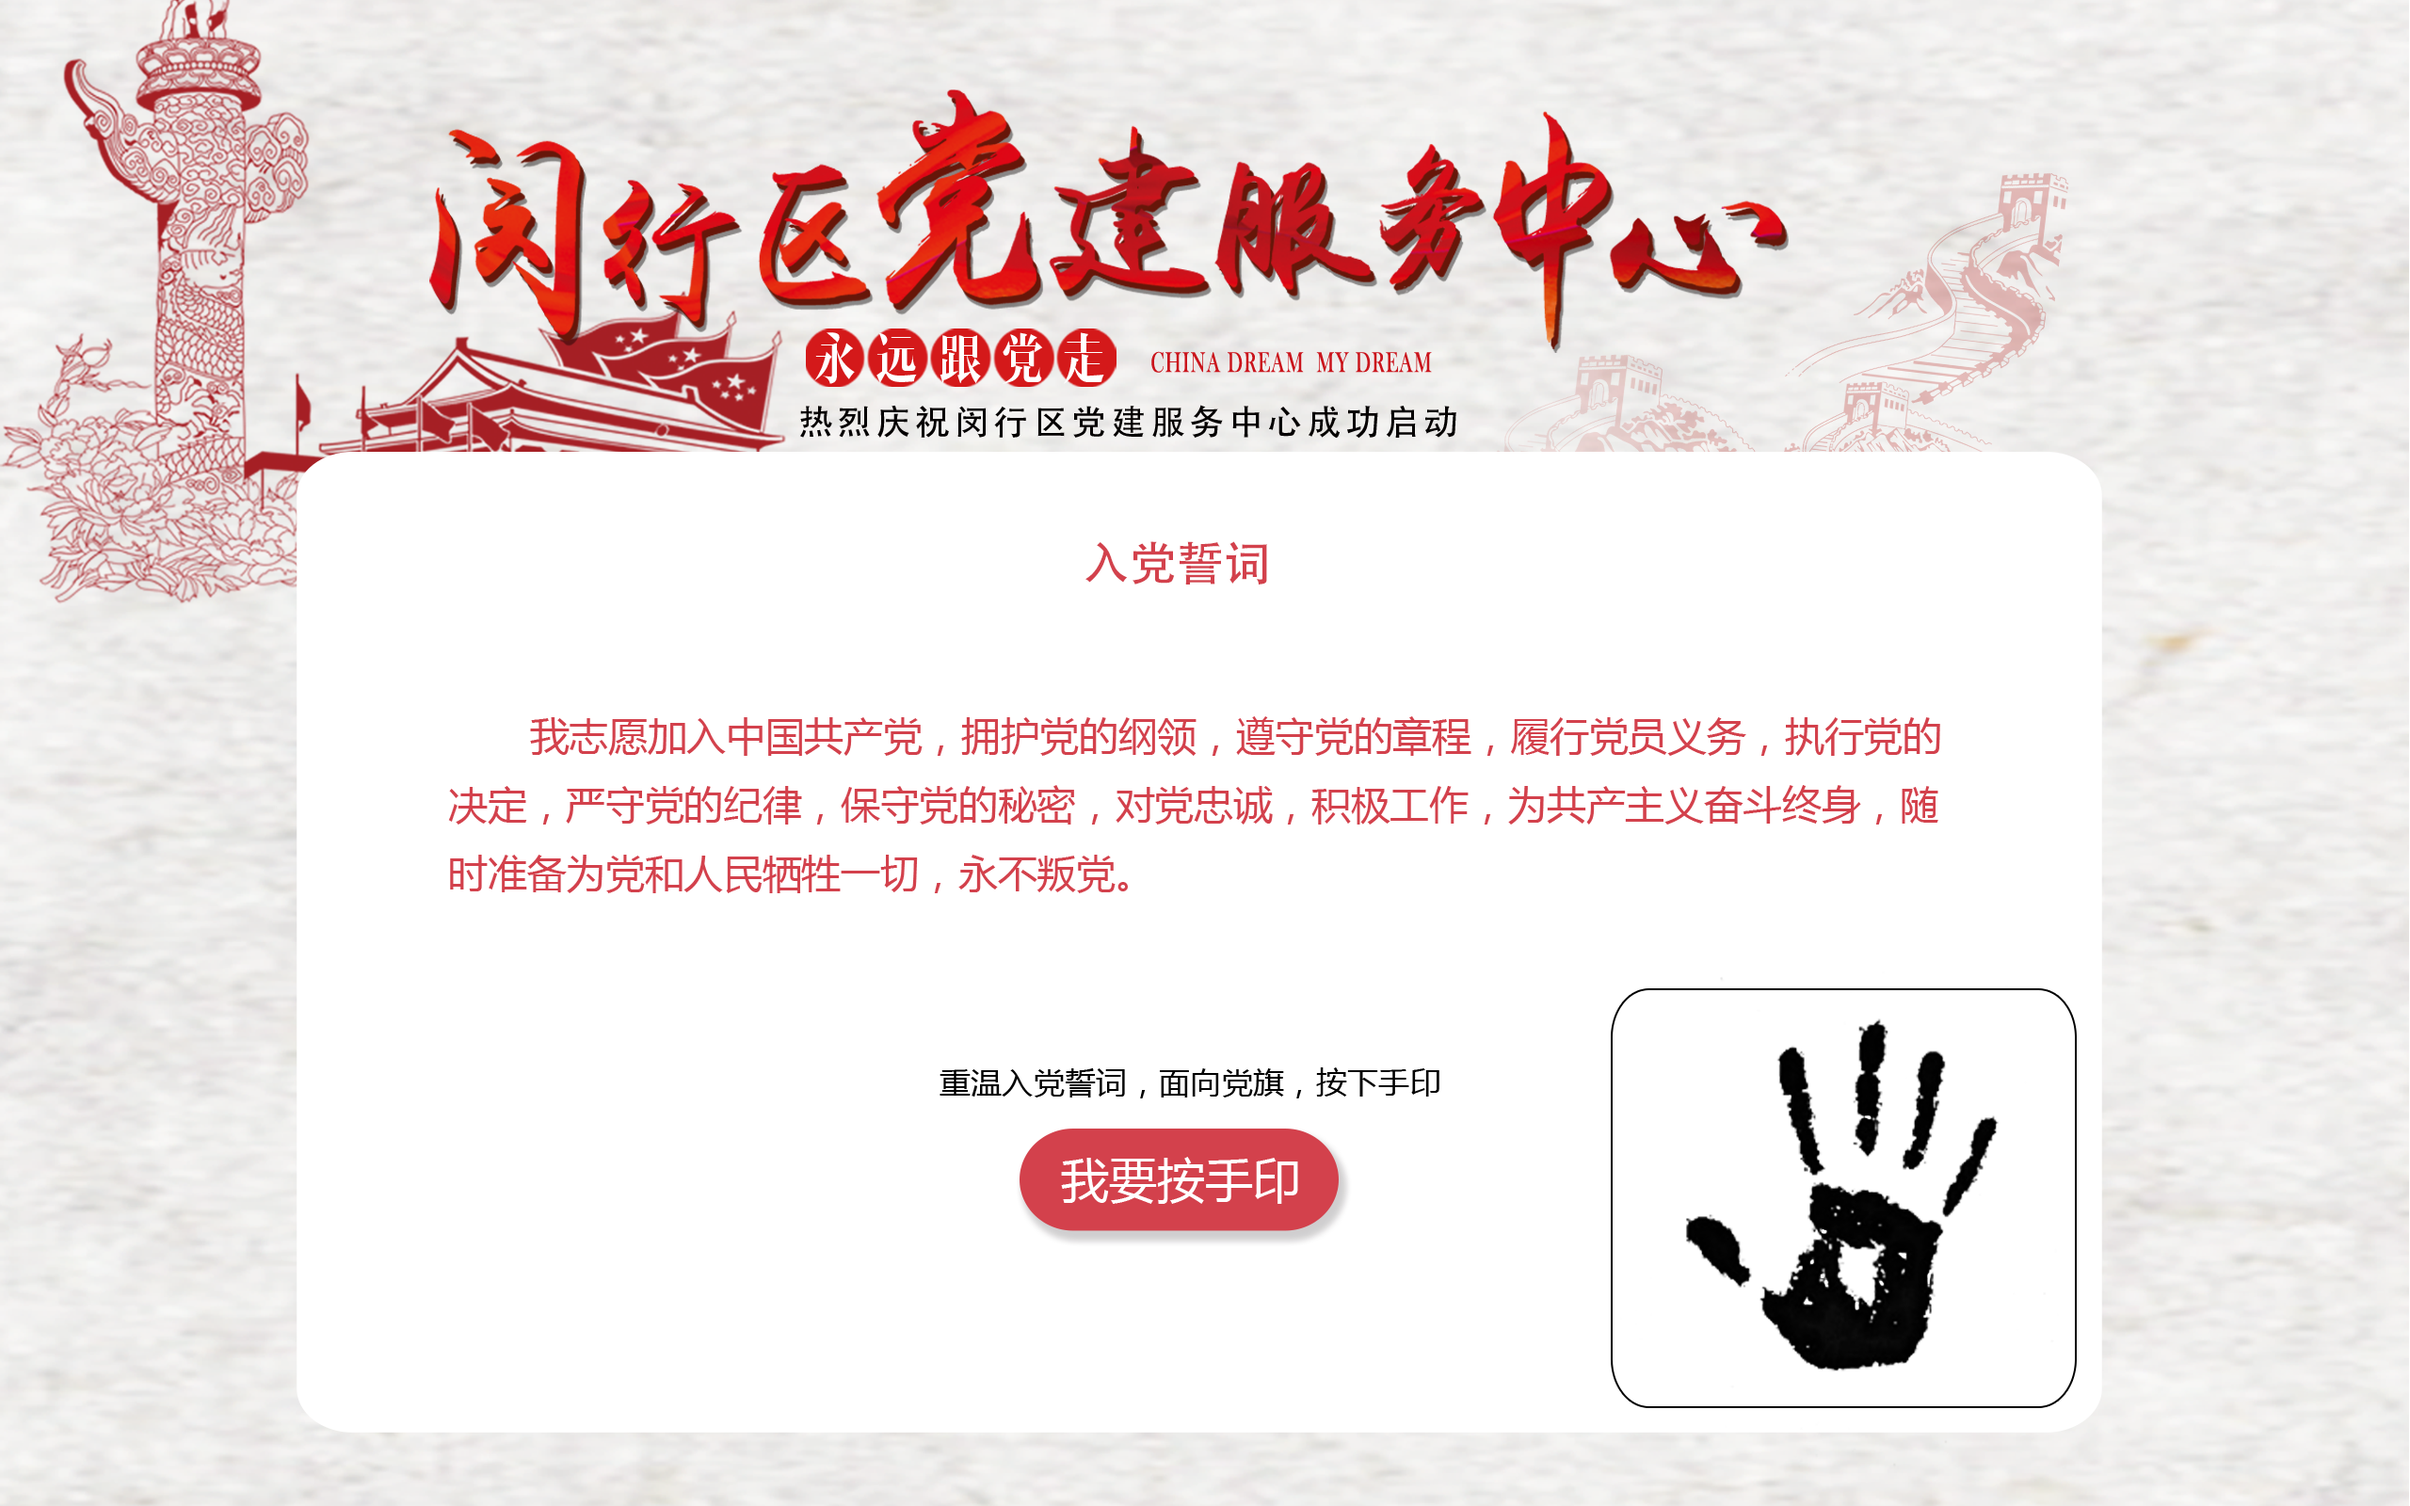
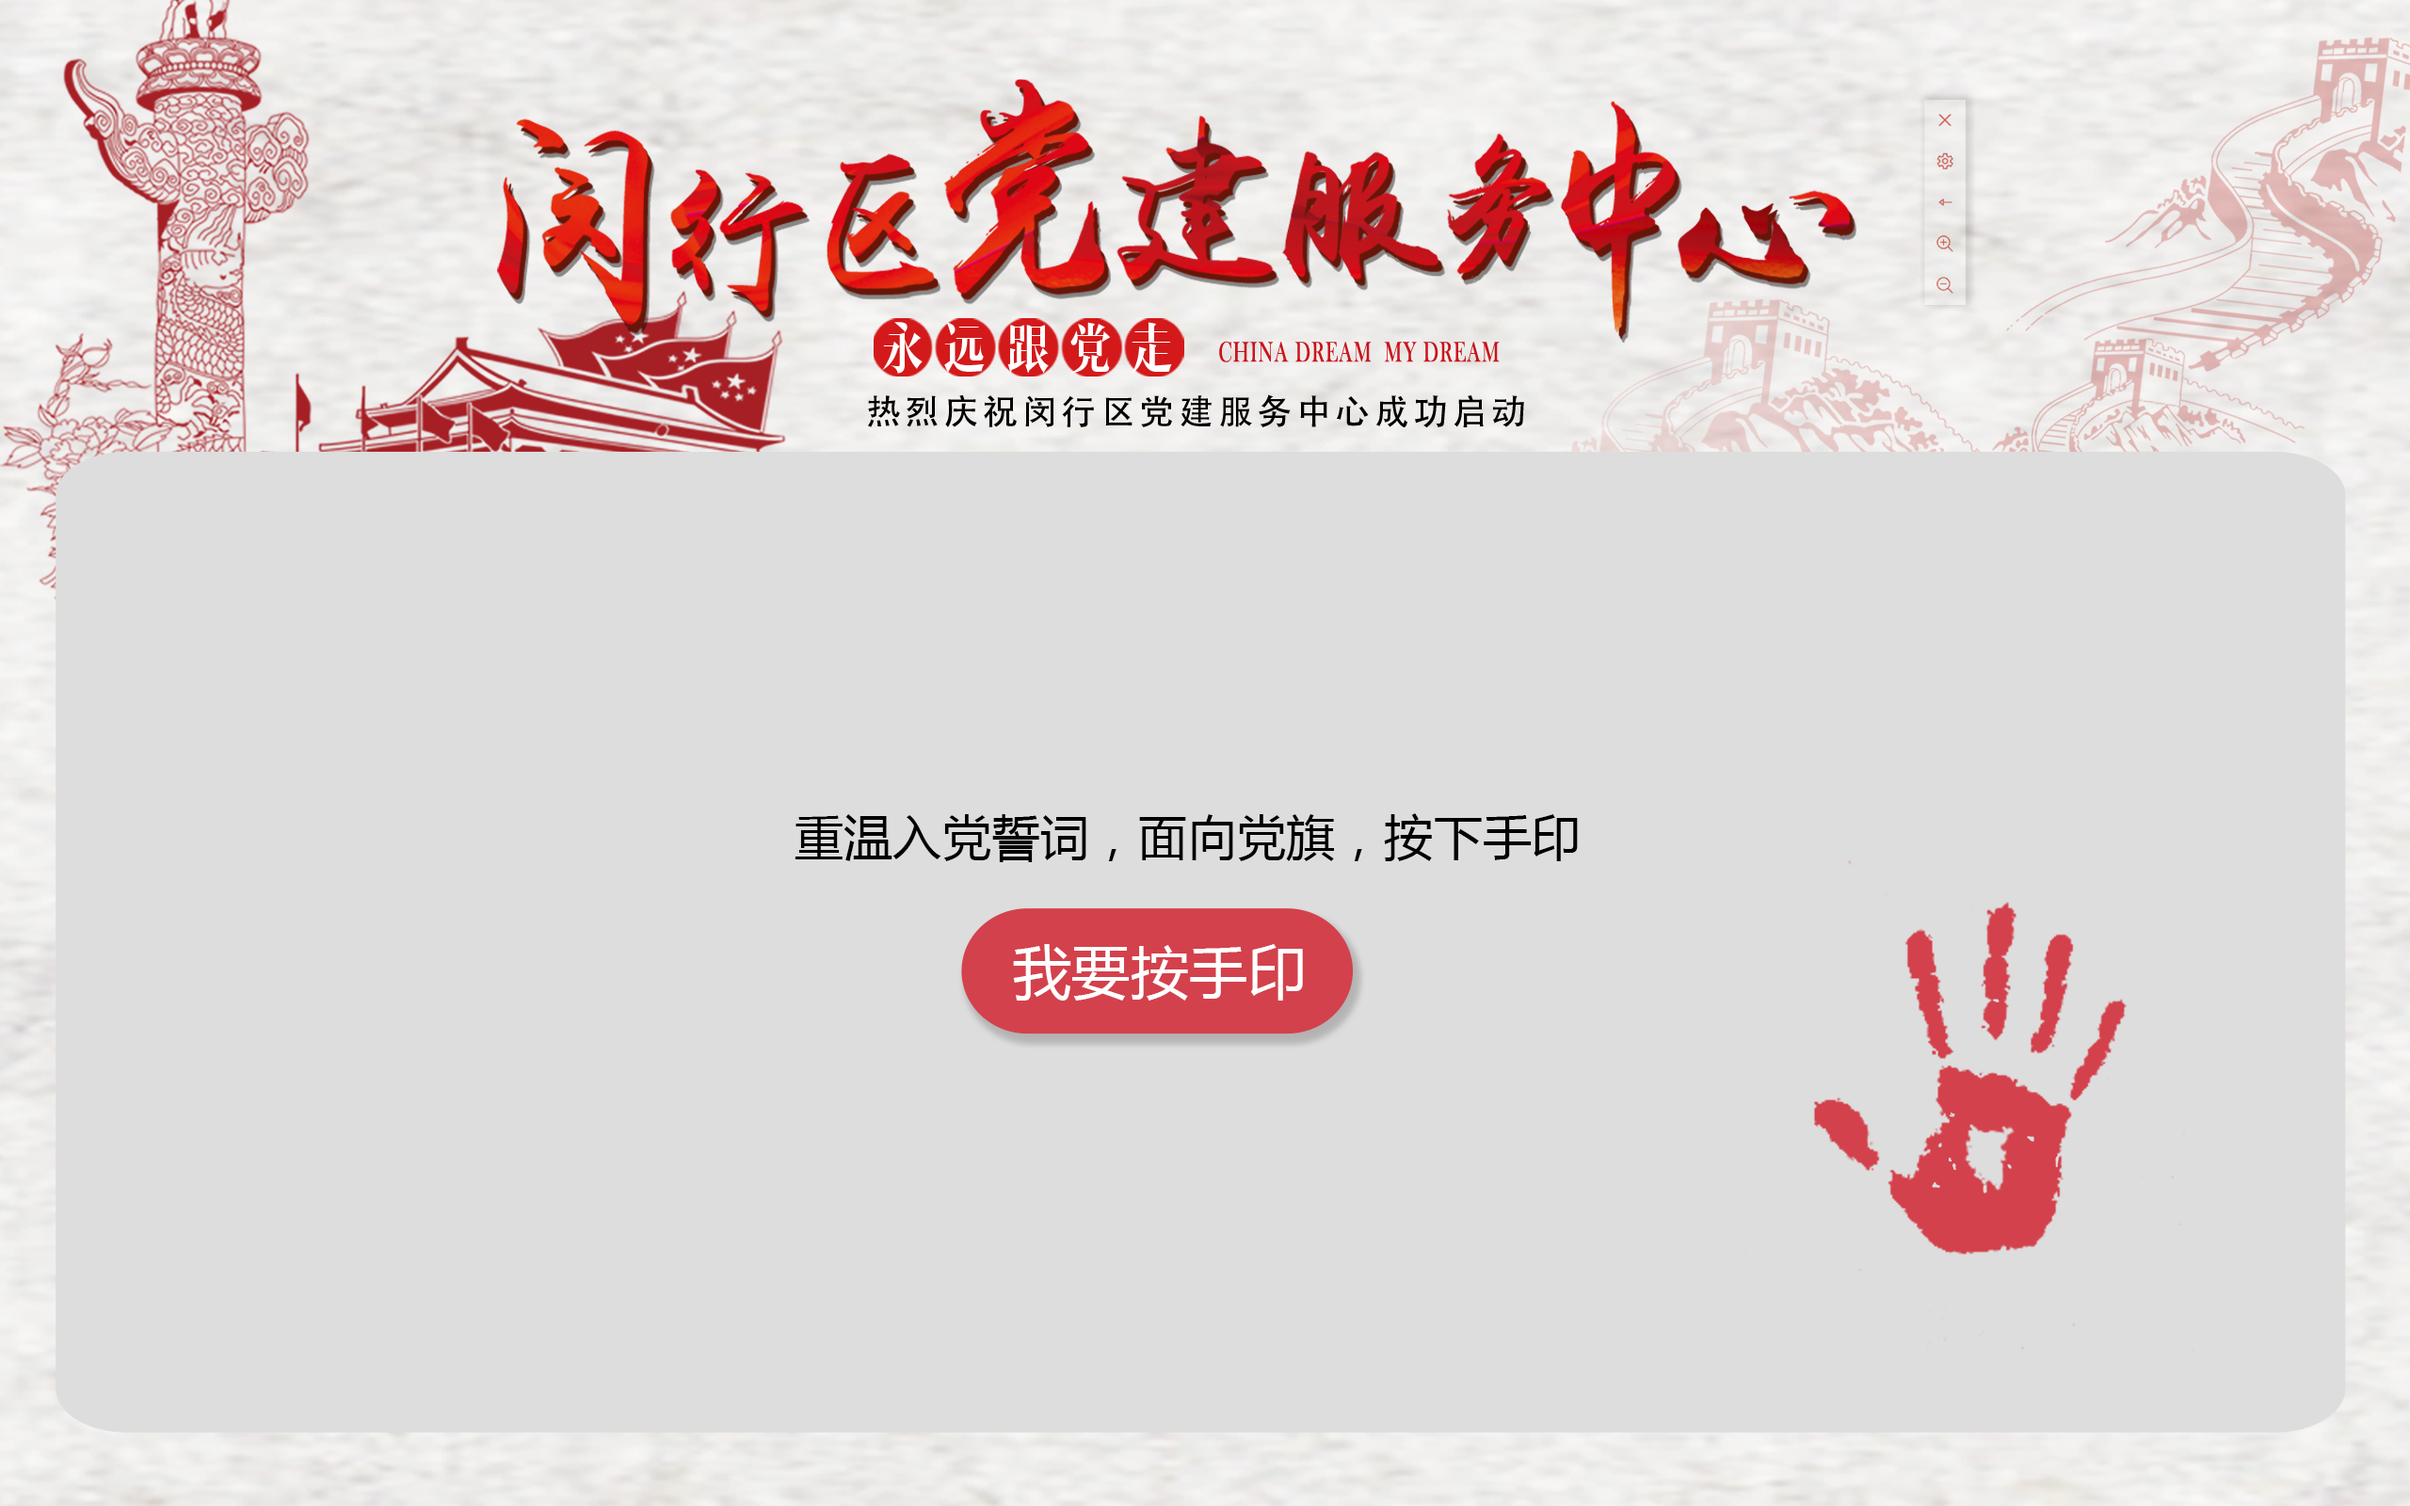
完善

diff --git a/src/view/3/Index.js b/src/view/3/Index.js
@@ -1,6 +1,6 @@
 import React, {Component} from 'react';
 import {connect} from 'dva';
-import {Modal, Spin, Progress} from 'antd';
+import {Modal, Spin, Progress, Button} from 'antd';
 
 import http from '../../util/http';
 import constant from '../../util/constant';
@@ -19,6 +19,7 @@ class Index extends Component {
             is_scan_qrcode: false,
             is_show_task: false,
             is_show_progress: false,
+            is_complete_task: false,
             task: {
                 task_id: '001f46fc946647efa4bccaa9735f94e6',
                 task_qrcode_url: '/upload/8acc2d49ad014f418878d1a16336c16b/001f46fc946647efa4bccaa9735f94e6.png'
@@ -32,6 +33,17 @@ class Index extends Component {
     componentDidMount() {
         notification.on('loadHandlePrint', this, function (data) {
             if (this.state.task && this.state.task.task_id && this.state.visible) {
+                isTouch = false;
+                storage.setToken('');
+                this.setState({
+                    is_scan_qrcode: false,
+                    is_show_task: false,
+                    is_show_progress: false,
+                    is_complete_task: false,
+                    user_list: [],
+                    percent: 0,
+                    handleImageIndex: 0
+                });
                 this.handleReloadUser(data.content);
             }
         });
@@ -56,15 +68,13 @@ class Index extends Component {
         if (token) {
             storage.setToken(token);
             http.request({
-                url: '/mobile/minhang/task/user/complete/list',
-                data: {
-                    task_id: this.state.task.task_id,
-                    page_index: 1,
-                    page_size: 8
-                },
+                url: '/mobile/minhang/task/user/find',
+                data: {},
                 success: function (data) {
+                    let user_list = [];
+                    user_list.push(data);
                     this.setState({
-                        user_list: data,
+                        user_list: user_list,
                         is_scan_qrcode: true
                     });
                 }.bind(this),
@@ -89,20 +99,32 @@ class Index extends Component {
 
     handleOk() {
         isTouch = false;
-        storage.setToken(null);
+        storage.setToken('');
 
         this.setState({
             visible: false,
-            is_show_task: false
+            is_scan_qrcode: false,
+            is_show_task: false,
+            is_show_progress: false,
+            is_complete_task: false,
+            user_list: [],
+            percent: 0,
+            handleImageIndex: 0
         });
     }
 
     handleCancel() {
         isTouch = false;
-        storage.setToken(null);
+        storage.setToken('');
         this.setState({
             visible: false,
-            is_show_task: false
+            is_scan_qrcode: false,
+            is_show_task: false,
+            is_show_progress: false,
+            is_complete_task: false,
+            user_list: [],
+            percent: 0,
+            handleImageIndex: 0
         });
     }
 
@@ -142,6 +164,47 @@ class Index extends Component {
         return (Min + Math.round(Rand * Range));
     }
 
+    handleUploadHandPrint() {
+        this.setState({
+            is_load: true
+        });
+        let file_id = '';
+        if (this.state.handleImageIndex === 0) {
+            file_id = '88d51dde1b7e461f9dbd3852a9399d8b';
+        } else if (this.state.handleImageIndex === 1) {
+            file_id = '72eadb2e4a224e6187a09e71fe6d423f';
+        } else if (this.state.handleImageIndex === 2) {
+            file_id = '214c5331b9e847c887a5c6af22d7c90a';
+        } else if (this.state.handleImageIndex === 3) {
+            file_id = '811e74875187456d902acac09f4d9f78';
+        } else if (this.state.handleImageIndex === 4) {
+            file_id = '00377686aeea42c1be19415fca9182bc';
+        }
+        http.request({
+            url: '/mobile/minhang/task/member/complete',
+            data: {
+                task_id: this.state.task.task_id,
+                member_picture: {
+                    picture_file: file_id
+                },
+                key_activated_step: 2,
+                member_task_type: 'HAND_PRINT_PICTURE'
+            },
+            success: function (data) {
+                notification.emit('sendMessage', {
+                    targetId: storage.getToken(),
+                    action: 'loadKey',
+                    content: ''
+                });
+            }.bind(this),
+            complete: function () {
+                this.setState({
+                    is_load: false
+                });
+            }.bind(this)
+        });
+    }
+
     render() {
         return (
             <div className="index-3-bg" onClick={this.handleClick.bind(this)}>
@@ -162,6 +225,20 @@ class Index extends Component {
                                             this.state.is_show_task ?
                                                 <div>
                                                     <img className="hand-print" src={require('../../image/handprint' + this.state.handleImageIndex + '.jpg')} alt=""/>
+                                                    {
+                                                        this.state.is_complete_task ?
+                                                            <div className="hand-print-upload">
+                                                                上传手印成功
+                                                            </div>
+                                                            :
+                                                            <Button type="danger"
+                                                                    icon="uplaod"
+                                                                    size="large"
+                                                                    onClick={this.handleUploadHandPrint.bind(this)}
+                                                                    className="hand-print-upload">
+                                                                上传手印
+                                                            </Button>
+                                                    }
                                                 </div>
                                                 :
                                                 <div>

diff --git a/src/view/0/Index.js b/src/view/0/Index.js
@@ -15,6 +15,7 @@ class Index extends Component {
         this.state = {
             visible: false,
             is_load: false,
+            is_queue_anim: false,
             poster: {},
             poster_list: [],
             user_list: [],
@@ -27,7 +28,10 @@ class Index extends Component {
             this.handleReloadUser();
         });
         notification.on('loadMember', this, function (data) {
-            console.log('调用测试成功', data);
+            this.setState({
+                is_queue_anim: false
+            });
+
             this.handleReloadMember();
         });
         this.handleLoadPoster();
@@ -68,7 +72,8 @@ class Index extends Component {
             },
             success: function (data) {
                 this.setState({
-                    member_list: data
+                    member_list: data,
+                    is_queue_anim: true
                 });
             }.bind(this),
             complete: function () {
@@ -170,22 +175,28 @@ class Index extends Component {
 
                     <div className="side">
                         <div className="public_signal">
-                            <img src={require('../../image/code_img_00.jpg')} alt=""/>
-                            <p>扫二维码关注公众号</p>
+
                         </div>
                         <div className="member">
-                            <p>登陆成功的党员</p>
                             <ul>
                                 {
-                                    this.state.member_list.map((member, index) => {
-                                        return (
-                                            <li key={index}>
-                                                <img className="member-image" src={member.user_avatar?member.user_avatar:null}
-                                                     alt=""/>
-                                                <span>{member.user_name}</span>
-                                            </li>)
-                                    })
+                                    this.state.is_queue_anim?
+                                        <QueueAnim delay={[0, 300]} type="scale">
+                                            {
+                                                this.state.member_list.map((member, index) => {
+                                                    return (
+                                                        <li key={index}>
+                                                            <img className="member-image" src={member.user_avatar?member.user_avatar:null}
+                                                                 alt=""/>
+                                                            <span>{member.user_name}</span>
+                                                        </li>)
+                                                })
+                                            }
+                                        </QueueAnim>
+                                        :
+                                        null
                                 }
+
                             </ul>
                         </div>
                     </div>
@@ -206,14 +217,13 @@ class Index extends Component {
                             {
                                 this.state.user_list.map((user, index) => {
                                     return (
-                                        <QueueAnim delay={[0, 300]} type="scale">
+
                                             <div className="task-member" key={index}>
                                                 <div className="member-avatar">
                                                     <img src={user.user_avatar? constant.host + user.user_avatar : null} alt=""/>
                                                 </div>
                                                 <div className="member-name">{user.user_name}</div>
                                             </div>
-                                        </QueueAnim>
                                     )
                                 })
                             }

diff --git a/src/index.js b/src/index.js
@@ -20,8 +20,17 @@ window.socket.on('connect', function () {
         id: constant.id
     }, function (response) {
         if (response.code === 200) {
+            notification.on('sendMessage', this, function (data) {
+                window.socket.emit('sendMessage', {
+                    targetId: data.targetId,
+                    action: data.action,
+                    content: data.content
+                }, function (response) {
+
+                });
+            });
             window.socket.on('receiveMessage', function (data) {
-                notification.emit(data.data.action, {content: data.content});
+                notification.emit(data.data.action, {content: data.data.content});
             });
         }
     });

diff --git a/src/util/constant.js b/src/util/constant.js
@@ -3,11 +3,11 @@ export default {
     socket: 'http://api.chuangshi.nowui.com:2998',
     // host: 'http://localhost:8080',
     host: 'http://api.chuangshi.nowui.com',
-    // id: '0',
+    id: '0',
     // id: '2',
     // id: '3',
     // id: '4',
-    id: '5',
+    // id: '5',
     platform: 'H5',
     version: '1.0.0',
     app_id: '8acc2d49ad014f418878d1a16336c16b'

diff --git a/src/view/Style.css b/src/view/Style.css
@@ -90,8 +90,8 @@
 .side {
     position: absolute;
     top: 93px;
-    right: 93px;
-    width: 224px;
+    right: 40px;
+    width: 245px;
 }
 
 .public_signal {
@@ -406,8 +406,12 @@
 }
 
 .hand-print {
-    height: 700px;
+    height: 600px;
     margin: 0 auto;
+    display: block;
+}
+.hand-print-upload {
+    margin: 20px auto;
     display: block;
 }
 
